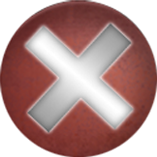
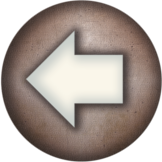
new back arrows and bug fix at new items in inventory

diff --git a/core/src/org/scify/moonwalker/app/ui/renderables/CockpitRenderable.java b/core/src/org/scify/moonwalker/app/ui/renderables/CockpitRenderable.java
@@ -58,8 +58,6 @@ public class CockpitRenderable extends FadingTableRenderable {
     protected static final String OUTSIDE_BACKGROUND_ID = "outside_background";
 
     //audio
-    public static final String CLICK_AUDIO_PATH = "audio/button1.mp3";
-    public static final String WRONG_BUTTON_AUDIO_PATH = "audio/wrong.mp3";
     public static final String BG_DEFAULT_AUDIO_PATH = "audio/episode_cockpit/bg.mp3";
     public static final String BG_NOWHERE1_AUDIO_PATH = "audio/episode_cockpit/bg_nowhere1.mp3";
     public static final String BG_NOWHERE2_AUDIO_PATH = "audio/episode_cockpit/bg_nowhere2.mp3";

diff --git a/core/src/org/scify/moonwalker/app/ui/renderables/DreamingRoomRenderable.java b/core/src/org/scify/moonwalker/app/ui/renderables/DreamingRoomRenderable.java
@@ -30,7 +30,6 @@ public class DreamingRoomRenderable extends ChattableRenderable {
     public final static String CREDITS_AUDIO_PATH = "audio/episode_dreaming_room/credits.mp3";
     public final static String BOY_MUSIC_AUDIO_PATH = "audio/episode_room/boy_music.mp3";
     public final static String GIRL_MUSIC_AUDIO_PATH = "audio/episode_room/girl_music.mp3";
-    public final static String MOBILE_AUDIO_PATH = "audio/message.mp3";
     public static final String DAYPASSED_AUDIO_PATH = "audio/episode_location/day_passed.mp3";
 
     protected Set<Renderable> allRenderables;

diff --git a/core/src/org/scify/moonwalker/app/ui/renderables/FadingTableRenderable.java b/core/src/org/scify/moonwalker/app/ui/renderables/FadingTableRenderable.java
@@ -11,6 +11,11 @@ import java.util.ArrayList;
 import java.util.List;
 
 public class FadingTableRenderable extends TableRenderable {
+    //audio
+    public static final String CLICK_AUDIO_PATH = "audio/button1.mp3";
+    public static final String WRONG_BUTTON_AUDIO_PATH = "audio/wrong.mp3";
+    public final static String MOBILE_AUDIO_PATH = "audio/message.mp3";
+
     protected List<Runnable> beforeFadeIn = new ArrayList<>();
     protected List<Runnable> afterFadeIn = new ArrayList<>();
     protected List<Runnable> beforeFadeOut = new ArrayList<>();

diff --git a/core/src/org/scify/moonwalker/app/game/rules/episodes/SpaceshipInventoryEpisodeRules.java b/core/src/org/scify/moonwalker/app/game/rules/episodes/SpaceshipInventoryEpisodeRules.java
@@ -92,6 +92,7 @@ public class SpaceshipInventoryEpisodeRules extends FadingEpisodeRules<Spaceship
     protected void handleUserAction(GameState gameState, UserAction userAction) {
         switch (userAction.getActionCode()) {
             case UserActionCode.QUIT: {
+                gameState.addGameEvent(new GameEvent(GAME_EVENT_AUDIO_START_UI, renderable.CLICK_AUDIO_PATH));
                 endEpisodeAndAddEventWithType(gameState, "");
                 renderable.fadeOutAllExtraRenderables();
                 if (gameInfo.isInventoryRequestFlag())

diff --git a/core/src/org/scify/moonwalker/app/ui/renderables/ForestRenderable.java b/core/src/org/scify/moonwalker/app/ui/renderables/ForestRenderable.java
@@ -9,7 +9,6 @@ public class ForestRenderable extends ChattableRenderable {
     //Audio
     public final static String FOREST_AUDIO_PATH = "audio/episode_forest/bg.mp3";
     public final static String BORING_MUSIC_AUDIO_PATH = "audio/episode_forest/boring_music.mp3";
-    public final static String MOBILE_AUDIO_PATH = "audio/message.mp3";
 
     public ForestRenderable(float xPos, float yPos, float width, float height, String id) {
         super(xPos, yPos, width, height, ACTOR_EPISODE_FOREST, id, BG_IMG_PATH);

diff --git a/core/src/org/scify/moonwalker/app/ui/renderables/MapEpisodeRenderable.java b/core/src/org/scify/moonwalker/app/ui/renderables/MapEpisodeRenderable.java
@@ -17,7 +17,6 @@ public class MapEpisodeRenderable extends Renderable {
     public static final String MAP_SELECT_ACTION = "MAP_SELECT";
 
     public static final String BG_IMAGE_PATH = "img/episode_map/bg.png";
-    //public static final String QUIT_BUTTON_IMG_PATH = "img/close.png";
 
     public static final String DESTINATION_HUD_IMG_PATH = "img/episode_map/destination.png";
     public static final String DISTANCE_HUD_IMG_PATH = "img/episode_map/distance.png";

diff --git a/core/src/org/scify/moonwalker/app/ui/renderables/ChargeEpisodeRenderable.java b/core/src/org/scify/moonwalker/app/ui/renderables/ChargeEpisodeRenderable.java
@@ -53,8 +53,6 @@ public class ChargeEpisodeRenderable extends ChattableRenderable {
 
     //audio
     public static final String POWER_UP_AUDIO_PATH = "audio/episode_charge/power_up.mp3";
-    public static final String CLICK_AUDIO_PATH = "audio/button1.mp3";
-    public static final String WRONG_BUTTON_AUDIO_PATH = "audio/wrong.mp3";
 
     protected ImageRenderable moonPhase1 = null;
     protected ImageRenderable moonPhase2 = null;

diff --git a/core/src/org/scify/moonwalker/app/ui/renderables/ContactScreenRenderable.java b/core/src/org/scify/moonwalker/app/ui/renderables/ContactScreenRenderable.java
@@ -17,8 +17,6 @@ public class ContactScreenRenderable extends ChattableRenderable {
     //renderable ids
     protected final static String AUNT_TEXT_ID = "aunt_text";
     protected final static String AUNT_AVATAR_ID = "aunt_avatar";
-    //audio
-    public final static String MOBILE_AUDIO_PATH = "audio/message.mp3";
 
     protected ImageRenderable contactDescription;
     protected ImageRenderable contactAvatar;

diff --git a/core/src/org/scify/moonwalker/app/ui/renderables/RoomRenderable.java b/core/src/org/scify/moonwalker/app/ui/renderables/RoomRenderable.java
@@ -28,7 +28,6 @@ public class RoomRenderable extends ChattableRenderable {
     //AUDIO
     public final static String BOY_MUSIC_AUDIO_PATH = "audio/episode_room/boy_music.mp3";
     public final static String GIRL_MUSIC_AUDIO_PATH = "audio/episode_room/girl_music.mp3";
-    public final static String MOBILE_AUDIO_PATH = "audio/message.mp3";
 
     protected boolean permanentlyOn;
 

diff --git a/core/src/org/scify/moonwalker/app/ui/renderables/MainMenuRenderable.java b/core/src/org/scify/moonwalker/app/ui/renderables/MainMenuRenderable.java
@@ -40,7 +40,6 @@ public class MainMenuRenderable extends FadingTableRenderable {
 
     //AUDIO
     public static final String MAINMENU_AUDIO_PATH = "audio/episode_main_menu/bg.mp3";
-    public static final String CLICK_AUDIO_PATH = "audio/button1.mp3";
 
     protected ActionButtonRenderable boyAvatarButton;
     protected ActionButtonRenderable girlAvatarButton;

diff --git a/core/src/org/scify/moonwalker/app/ui/renderables/IntroRenderable.java b/core/src/org/scify/moonwalker/app/ui/renderables/IntroRenderable.java
@@ -35,7 +35,6 @@ public class IntroRenderable extends FadingTableRenderable{
 
     //audio
     public static final String MAINMENU_AUDIO_PATH = "audio/episode_main_menu/bg.mp3";
-    public static final String CLICK_AUDIO_PATH = "audio/button1.mp3";
 
     protected Set<Renderable> allRenderables;
 

diff --git a/core/src/org/scify/moonwalker/app/game/GameInfo.java b/core/src/org/scify/moonwalker/app/game/GameInfo.java
@@ -297,7 +297,7 @@ public class GameInfo {
 
     public int increaseInventoryItemsCounter() {
         inventoryItemsCounter++;
-        inventoryIncreased = true;
+        inventoryIncreased = false;
         return inventoryItemsCounter;
     }
 
